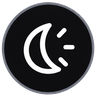
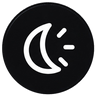
fix: 설정 화면 아이콘에서 회색 원형 테두리(링) 제거 (#171)
아이콘 디자인에 있던 회색 링을 검출해 안쪽 검정 채움색과 동일하게 리컬러링,
카드 배경(#111)과 거의 구분 안 되는 검정 원 + 흰색 글리프만 남도록 재가공.

Changed region(s): [[0.0, 0.0, 1.0, 1.0]]

diff --git a/index.html b/index.html
@@ -6543,7 +6543,7 @@ const settingsHeaderName = document.getElementById("settingsHeaderName");
 const settingsHeaderSub = document.getElementById("settingsHeaderSub");
 
 /* ✅ 앱 버전 정의 — 의미 있는 수정/배포마다 올림(설정 화면에서 "최신 버전 받았는지" 확인용) */
-const APP_VERSION = "0.5.1";
+const APP_VERSION = "0.5.2";
 const appVersionDisplay = document.getElementById("appVersionDisplay");
 if (appVersionDisplay) {
   appVersionDisplay.textContent = APP_VERSION;
